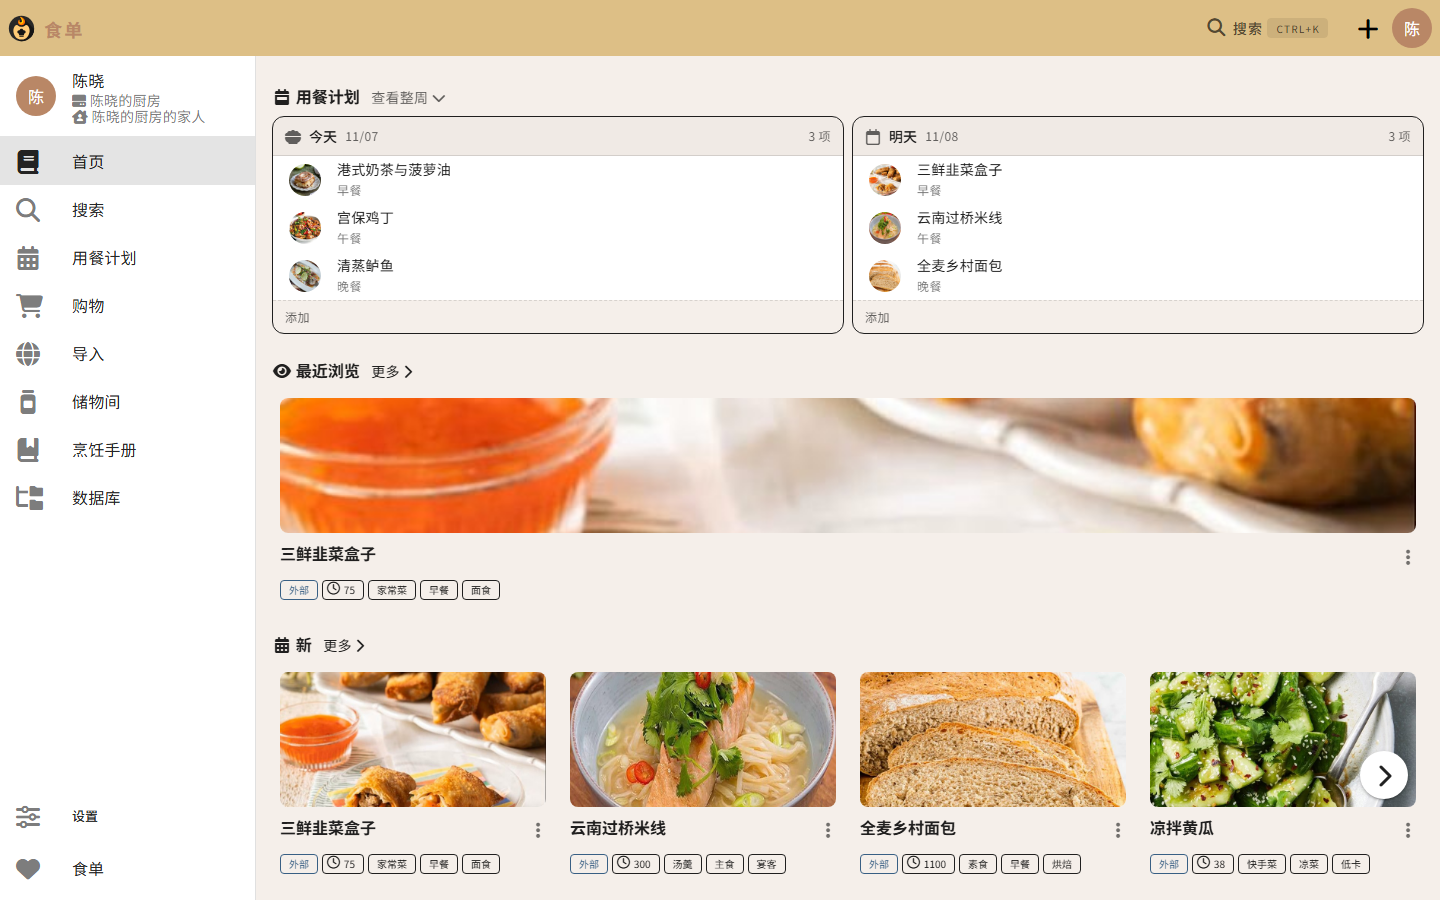
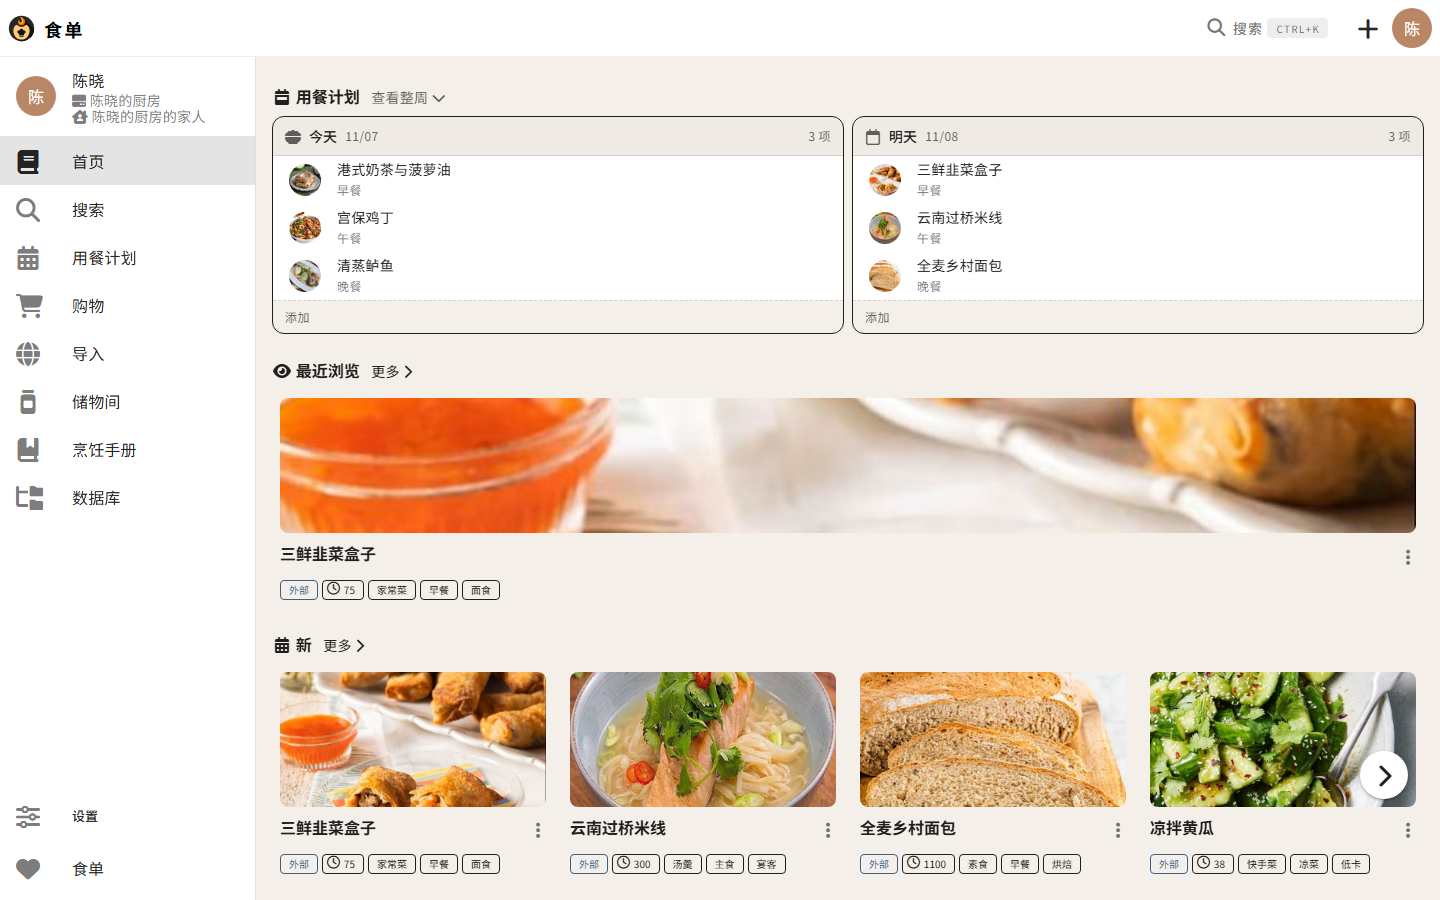
docs: 重采截图，截图脚本可复现空状态与深色
顶栏换色后，docs/screenshots 里的图全部过期，README 的头图还是金色顶栏。

顺手补上脚本缺的两块能力——之前深色截图是手工弄的，没人能重现：
- 翻到没有安排的周期，截「暂无安排」空状态
- 通过 pinia store 切换 Vuetify 主题（给元素加类没用，颜色在渲染时就解析
  好了，换类只会得到一条浅色顶栏）

主题类落在 .v-application 上而不是 <html>，而且要到下一帧才生效，所以
切换和判定拆成两步；这两点都写进了注释。

Changed region(s): [[0.0, 0.0, 1.0, 0.0622]]

diff --git a/README.md b/README.md
@@ -10,21 +10,23 @@
 
 | 方向 | 具体改动 | 关键文件 |
 |---|---|---|
-| 中文化 | 1120 个界面文案全部译为简体中文；默认语言锁定中文，不再跟随浏览器 `Accept-Language` | `vue3/src/locales/zh_Hans.json`、`cookbook/helper/locale_default.py` |
+| 中文化 | 1121 个界面文案全部译为简体中文；默认语言锁定中文，不再跟随浏览器 `Accept-Language` | `vue3/src/locales/zh_Hans.json`、`cookbook/helper/locale_default.py` |
 | 品牌 | 更名「食单 / Dishbook」，登录页、顶栏、页面标题、PWA 名称、邀请邮件统一替换；字标拆成「图标 + 文本」以便换名 | `vue3/src/components/display/BrandWordmark.vue`、`cookbook/theming_tags.py` |
 | 会话策略 | 双规则：页面常开满 3 小时弹窗强制下线；页面关闭后 5 分钟未回来则过期。心跳续期 + 响应头下发剩余时间 | `cookbook/helper/session_limits.py`、`vue3/src/utils/sessionGuard.ts` |
 | 用餐计划 | 日历重做：行高由当天条目数反推（不再溢出到下一周）、条目按餐次配色、空白格给「＋ 添加」占位、工具条改为「‹ 今天 › + 日历」 | `vue3/src/components/display/MealPlanView.vue` |
 | 手机布局 | 小于 960px 不再渲染七列网格，改为按天分组的议程列表 | `vue3/src/components/display/MealPlanAgenda.vue` |
 | 深色模式 | 日历与条目改用 CSS 变量，深色主题下不再出现白色板块 | `MealPlanView.vue` 的 `--mp-*` token |
-| 工程化 | 抽出日历布局纯函数并补 17 个单测；补齐运维脚本；修正 28 条失败用例中的 4 条、其余标注原因 | `vue3/src/utils/mealplanLayout.ts`、`scripts/`、`docs/KNOWN_ISSUES.md` |
-| 文档 | 使用手册（单文件 HTML，可直接打印）、已知问题清单 | `docs/食单使用手册.html`、`docs/KNOWN_ISSUES.md` |
+| 空状态 | 整屏没有安排时浮出「暂无安排 / 点任意日期添加」，不再让人误以为加载失败 | `MealPlanView.vue`、`utils/mealplanLayout.ts` |
+| 顶栏配色 | 由金色改为中性（浅色白底 / 深色 `#212121`），强调色只留在按钮与链接上 | `vue3/src/vuetify.ts`、`apps/tandoor/Tandoor.vue` |
+| 工程化 | 抽出日历布局纯函数并补 22 个单测；补齐运维脚本；修正 28 条失败用例中的 4 条、其余标注原因 | `vue3/src/utils/mealplanLayout.ts`、`scripts/`、`docs/KNOWN_ISSUES.md` |
+| 文档 | 40 篇上游文档译为中文；另附使用手册（单文件 HTML，可直接打印）与已知问题清单 | `docs/`、`mkdocs.yml`、`docs/食单使用手册.html` |
 
 ## 技术栈
 
 - 后端：Python 3.12 · Django 5.2 · Django REST Framework · django-allauth（headless 模式）· django-scopes（多空间隔离）
 - 前端：Vue 3.5 · Vite 8 · Vuetify 3 · Pinia · vue-router · vue-i18n · vue-simple-calendar
 - 数据：SQLite（开发）/ PostgreSQL（生产）· 图片存本地或 S3
-- 测试：pytest（后端 1266 通过）· vitest（前端布局逻辑）
+- 测试：pytest（后端 1266 通过）· vitest（前端布局逻辑 22 条）
 
 ## 本地运行
 
